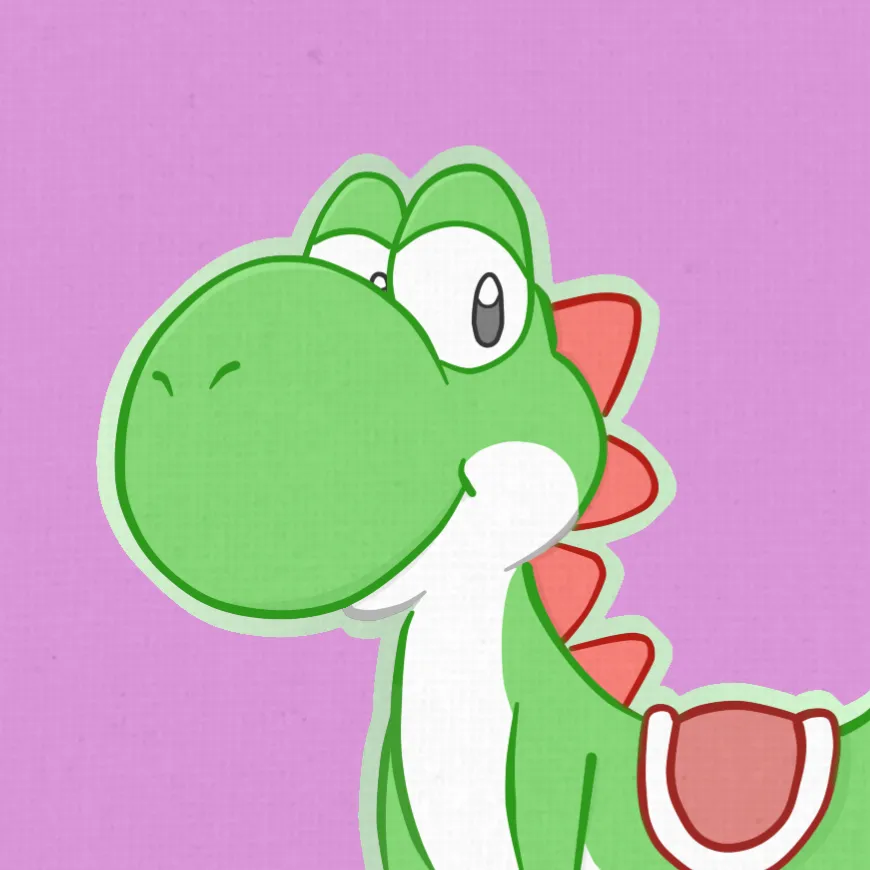
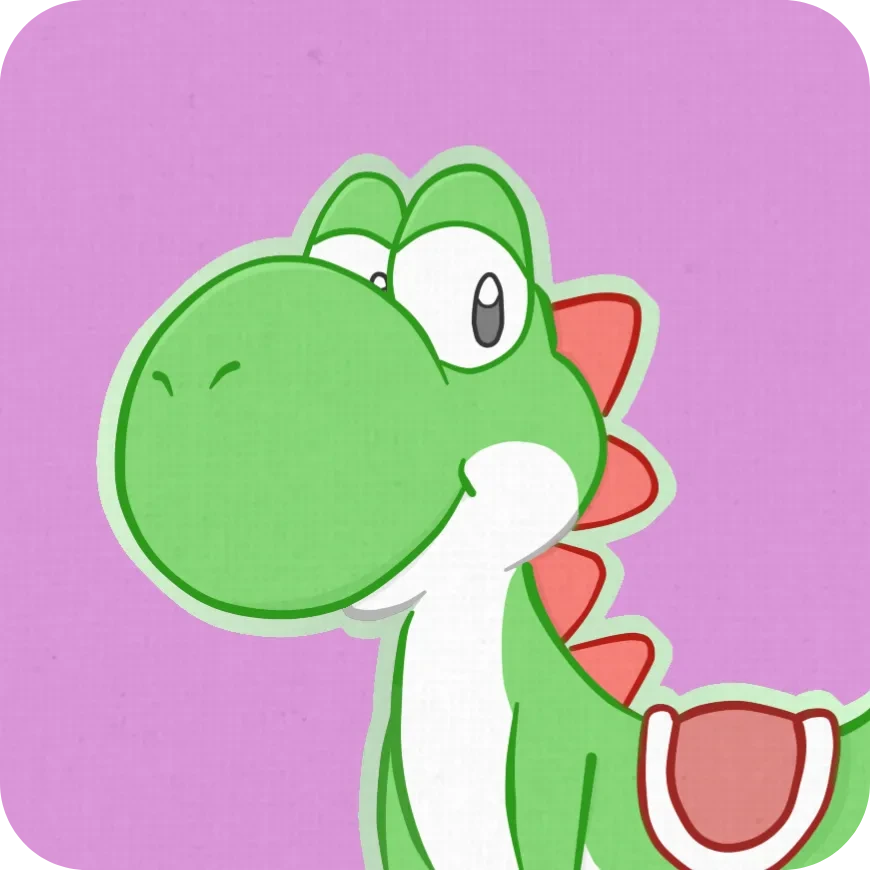
now using zensical instead of mkdocs
updated credits
updated logo to work on light mode
changed icon of fonts and loading
fixed some issues after changing from mkdocs-material to zensical
the navigation should be instant now instead of reloading the page each time
(hopefully this also fixes the 404 page)

diff --git a/docs/material/overrides/stylesheets/main.css b/docs/material/overrides/stylesheets/main.css
@@ -8,6 +8,16 @@
 
 .md-header, .md-tabs {
     background-color: #15b19f;
+    color: #FFFFFF
+}
+
+.md-tabs{
+    box-shadow: none;
+    border-bottom: none
+}
+
+.md-tabs__item--active {
+    border-bottom: none
 }
 
 .main-content {
@@ -21,6 +31,10 @@
 [data-md-color-scheme="slate"] .md-main,
 [data-md-color-scheme="slate"] .bg-pattern {
     background-image: url("../../../assets/bg-dark.png");
+}
+
+[data-md-color-scheme="slate"] {
+    --md-default-bg-color: #1E2129
 }
 
 [data-md-color-scheme="slate"] .md-header,

diff --git a/docs/credits/index.md b/docs/credits/index.md
@@ -80,15 +80,7 @@ Special Thanks
 /// caption
 Perrohuevo
 /// caption
-Theme Cafe Owner
-///
-///
-
-![Image title](ils.webp){ width="200" }
-/// caption
-ilovesplatoon8
-/// caption
-Moderator
+Theme Café Owner
 ///
 ///
 
@@ -96,4 +88,4 @@ Moderator
 
 Credits to [wiki.hacks.guide](https://wiki.hacks.guide/wiki/Wii_U:Custom_themes) for some of the information in this page
 
-This page was made with [Materials for MkDocs](https://squidfunk.github.io/mkdocs-material/)
+This page was made with [Zensical](https://zensical.org/)

diff --git a/docs/themecreation/resources/index.md b/docs/themecreation/resources/index.md
@@ -18,4 +18,17 @@ icon: fontawesome/solid/wrench
 
     [Go :material-arrow-right:](arrows.md){ .md-button .md-button--primary }
 
+
+-   **Custom Color Illustrations**
+
+    ![](imgs/illust/pre.png)
+
+    [Go :material-arrow-right:](illust.md){ .md-button .md-button--primary }
+
+-   **Cemu Theme Testing**
+
+    ![image](imgs/cemu/pre.png)
+
+    [Go :material-arrow-right:](cemu.md){ .md-button .md-button--primary }
+
 </div>

diff --git a/docs/install/loading.md b/docs/install/loading.md
@@ -1,7 +1,7 @@
 ---
 hide:
   - toc
-icon: material/brush
+icon: fontawesome/solid/paint-brush
 ---
 
 # Loading Custom Themes

diff --git a/docs/install/fonts.md b/docs/install/fonts.md
@@ -1,5 +1,5 @@
 ---
-icon: material/format-font
+icon: fontawesome/solid/font
 ---
 
 # Fonts

diff --git a/docs/themecreation/resources/cemu.md b/docs/themecreation/resources/cemu.md
@@ -1,0 +1,1 @@
+WIP

diff --git a/docs/themecreation/resources/illust.md b/docs/themecreation/resources/illust.md
@@ -1,0 +1,1 @@
+WIP
